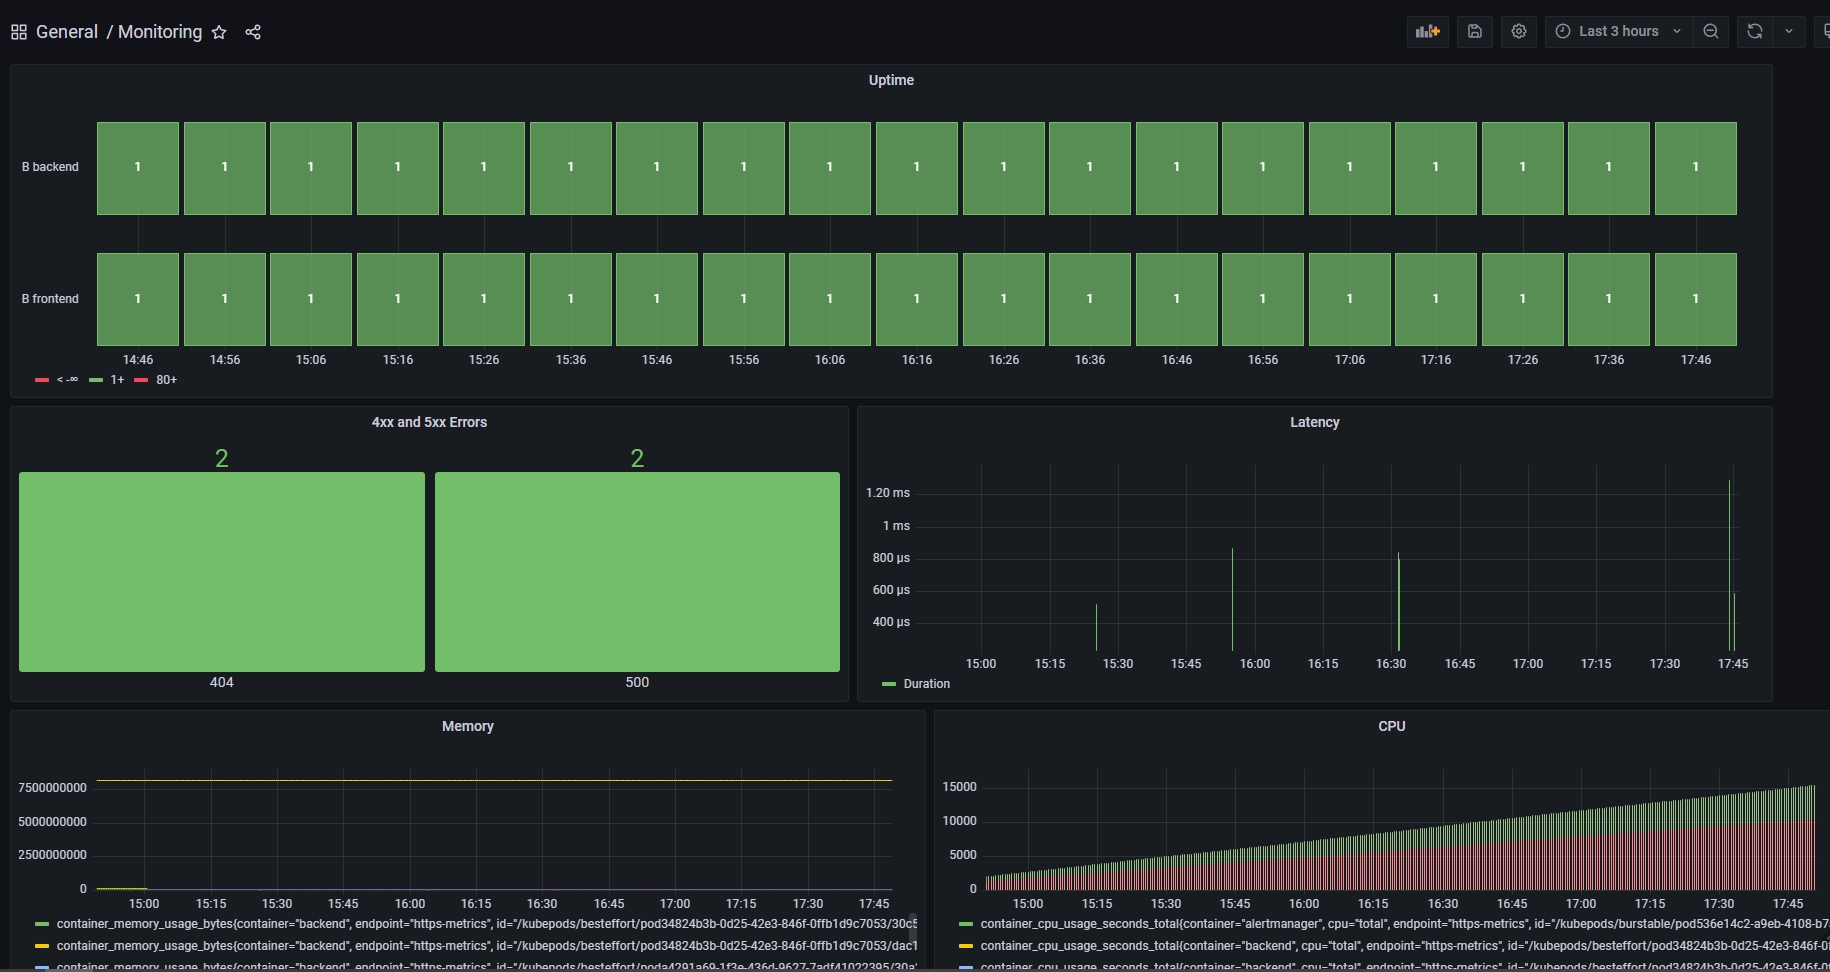
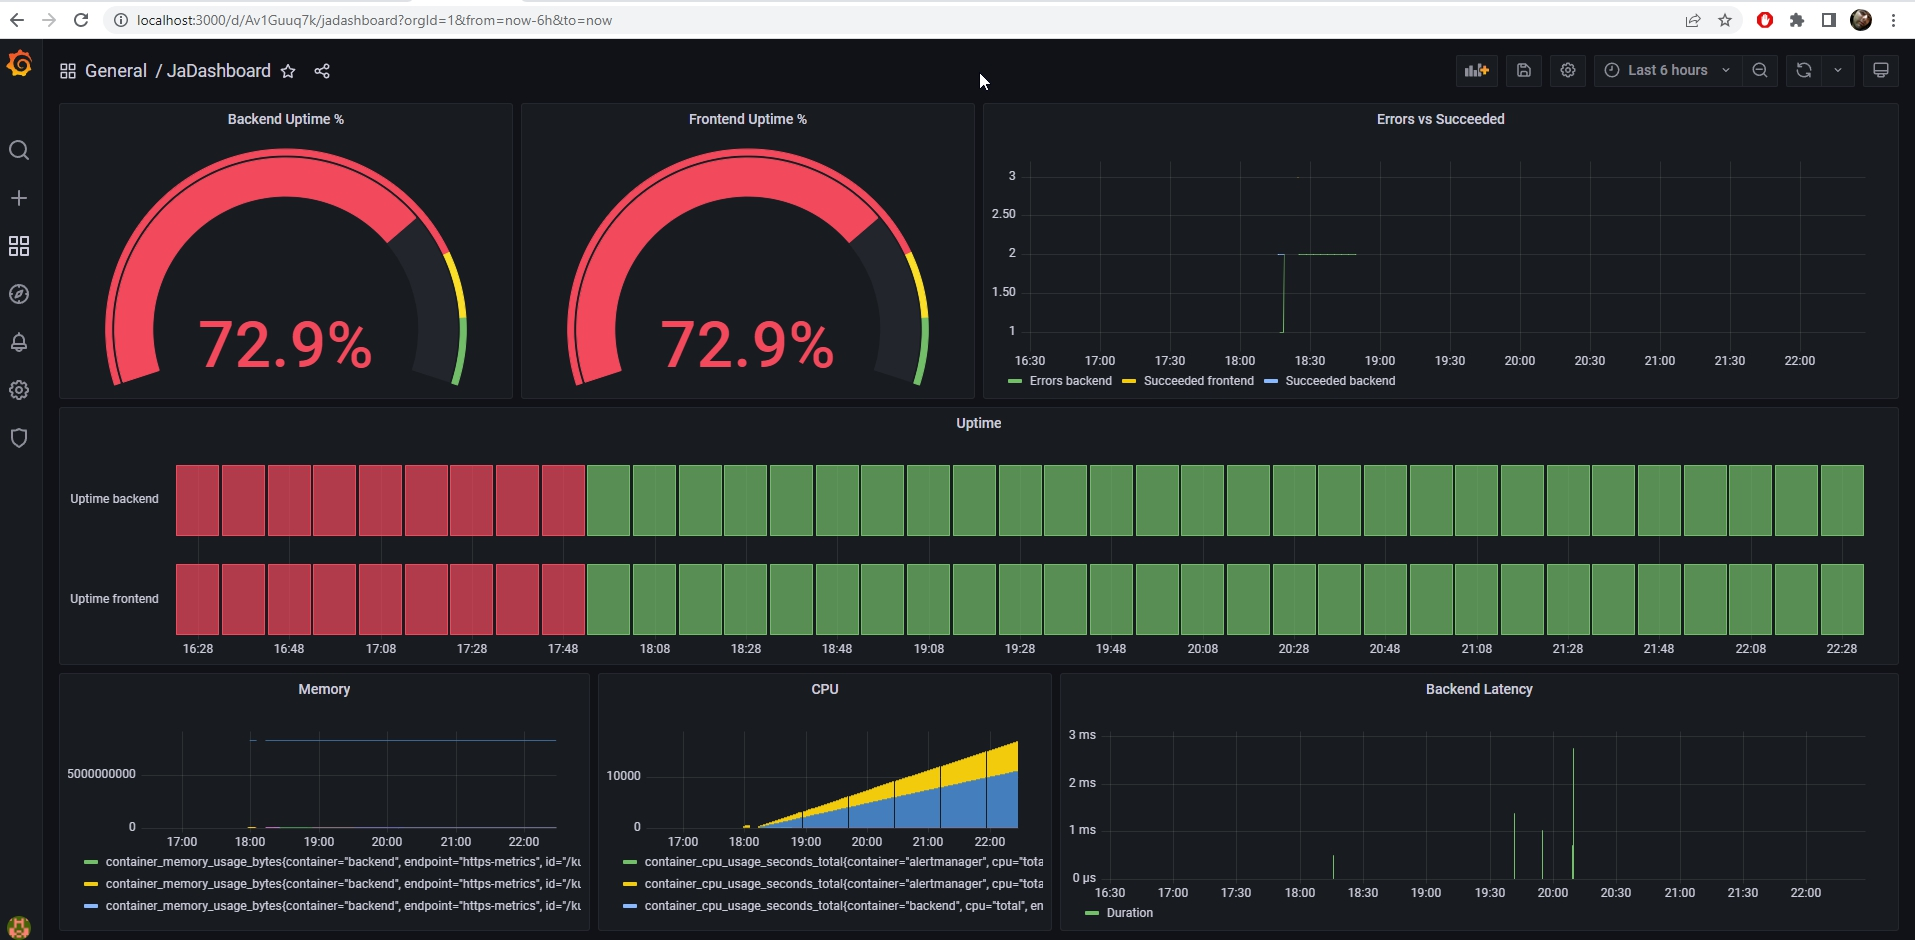
updated by comments

diff --git a/Project_Starter_Files-Building_a_Metrics_Dashboard/reference-app/backend/app.py b/Project_Starter_Files-Building_a_Metrics_Dashboard/reference-app/backend/app.py
@@ -36,7 +36,10 @@ def homepage():
 
 @app.route("/fail")
 def going_to_fail():
-    raise Exception("Something is wrong")
+    with tracer.start_span('backend-span2') as span:
+        span.set_tag('http.url', '/fail')        
+        span.set_tag('http.method', "GET")
+        raise ValueError("Something is wrong")
 
 @app.route("/api")
 def my_api():

diff --git a/Project_Starter_Files-Building_a_Metrics_Dashboard/README.md b/Project_Starter_Files-Building_a_Metrics_Dashboard/README.md
@@ -56,7 +56,7 @@ service/jaeger-operator-webhook-service   ClusterIP   10.43.242.200   <none>    
 ```
 ## Setup the Jaeger and Prometheus source
 *TODO:* Expose Grafana to the internet and then setup Prometheus as a data source. Provide a screenshot of the home page after logging into Grafana.
-
+![](answer-img/login.jpg)
 ![](answer-img/TODO2.jpg)
  
 ## Create a Basic Dashboard
@@ -86,7 +86,7 @@ and the average failed requests (no response) in the period time (ratio).
 ## Create a Dashboard to measure our SLIs
 *TODO:* Create a dashboard to measure the uptime of the frontend and backend services We will also want to measure to measure 40x and 50x errors. Create a dashboard that show these values over a 24 hour period and take a screenshot.
 
-![](answer-img/TODO4.jpg)
+![](answer-img/dashboard1.jpg.jpg)
  
 ## Tracing our Flask App
 *TODO:*  We will create a Jaeger span to measure the processes on the backend. Once you fill in the span, provide a screenshot of it here. Also provide a (screenshot) sample Python file containing a trace and span code used to perform Jaeger traces on the backend service.
@@ -108,22 +108,23 @@ Name:
 Jesus Andres Rueda
 
 Date:
-2022-06-27 
+2022-06-29 
 
 Subject:
-High latency on app 
+Error on app 
 
 Affected Area:
 Backend services 
 
 Severity:
-Medium 
+High 
 
 Description:
 
 
-Has been detected a set of requests that exceeds the latency threshold (500us) of the backend application in the new version.
+Has been detected a set of requests that ends with an app error on the backend application, in the new version.
 ![](answer-img/ticket-evidence1.jpg)
+
  
 ## Creating SLIs and SLOs
 *TODO:* We want to create an SLO guaranteeing that our application has a 99.95% uptime per month. Name four SLIs that you would use to measure the success of this SLO.
@@ -144,8 +145,13 @@ Has been detected a set of requests that exceeds the latency threshold (500us) o
 ## Final Dashboard
 *TODO*: Create a Dashboard containing graphs that capture all the metrics of your KPIs and adequately representing your SLIs and SLOs. Include a screenshot of the dashboard here, and write a text description of what graphs are represented in the dashboard.  
 ![](answer-img/dashboard-final.jpg)
-Uptime panel shows the availability of the services each 30s
-Errors panels, show the count of 4xx and 5xx errors in backend
-Latency shows the response time of the calls
-Memory shows the used memory of the nodes in cluster
-CPU shows the usage of the CPU nodes over the time
+
+1. Backend uptime %: Shows the % of the backend uptime on the selected range
+2. Frontend uptime %: Shows the % of the frontend uptime on the selected range
+3. Errors vs Succeeded, show the error and succeeded requests on the backend over the time
+4. Uptime: Shows the availability of the services each 30s over the selected range
+5. Memory: Shows the used memory of the nodes in cluster
+6. CPU:  Shows the usage of the CPU nodes over the time
+7. Backend Latency: Shows the response time of the backend requests
+
+
